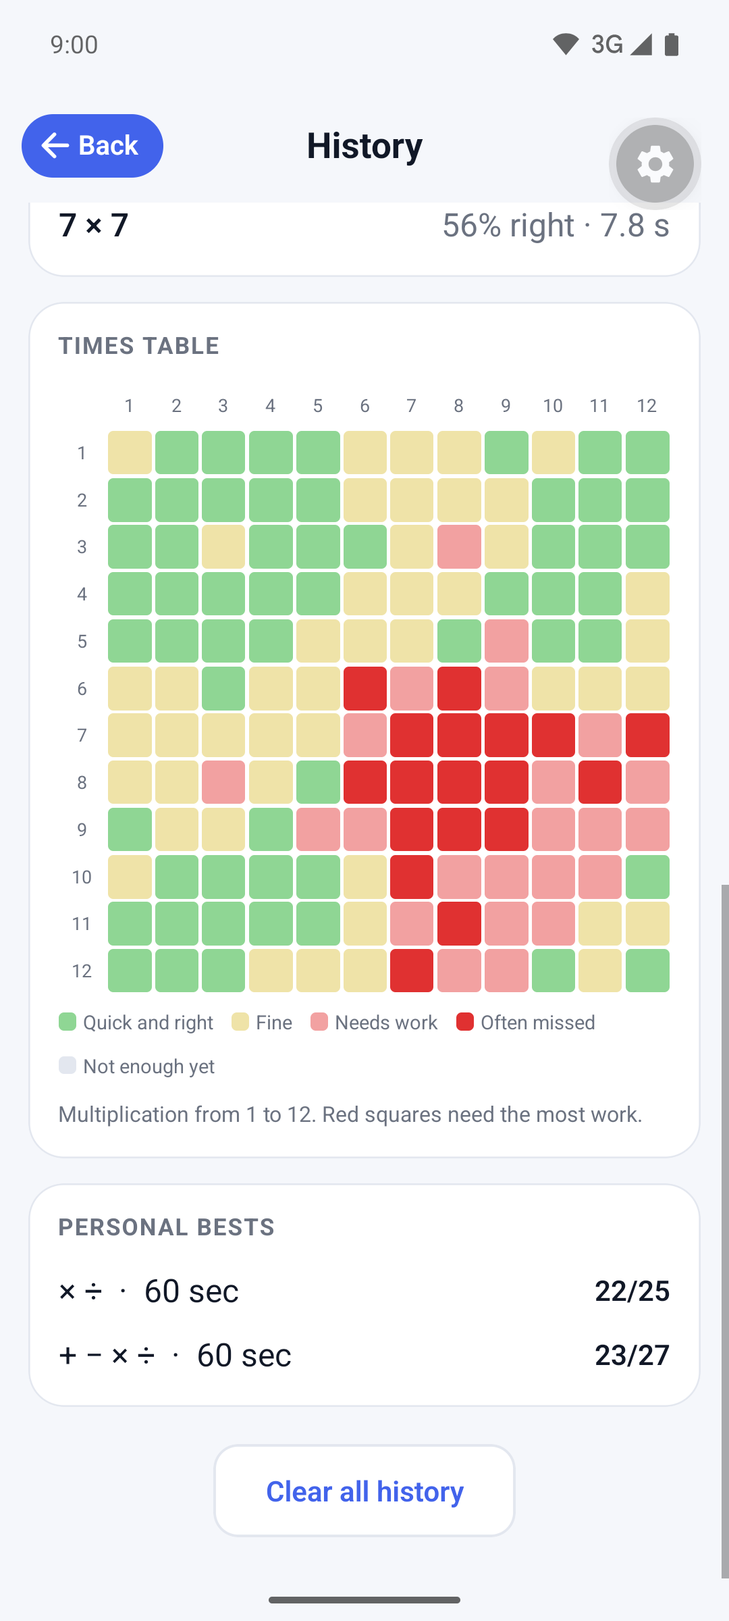
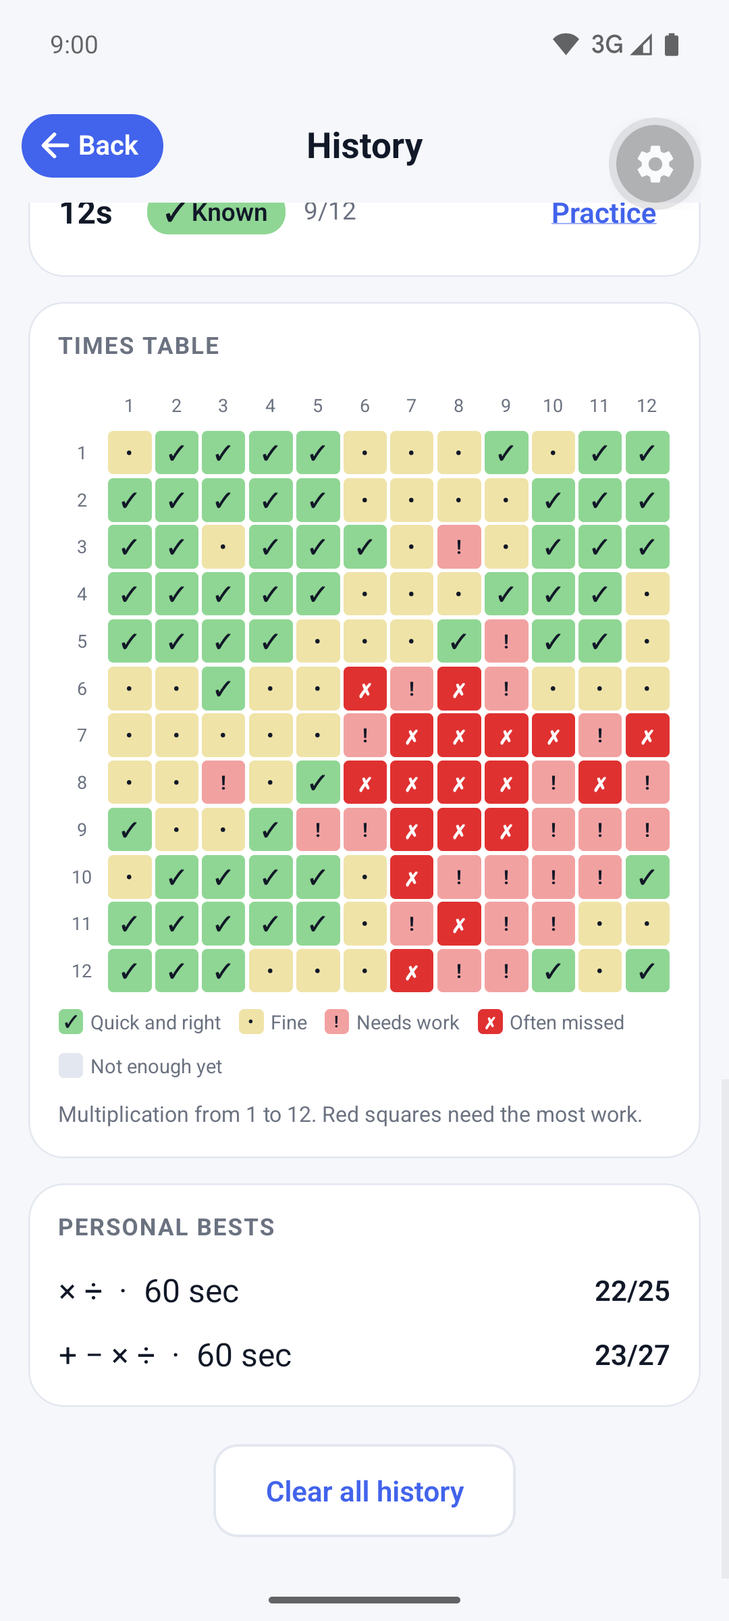
Practice path 7/7: README, privacy policy, store text and screenshots (#86)
* Practice path core: daily goal, streak with a rest day, times-table levels, saved per player

* Home screen: daily goal marks, streak and a goal button

* Today's practice: one-tap round of the next times table, limited to one table

* Times table levels on History, Practice the Ns, and a level-up line on the results screen

* Backup and restore carry the daily goal and streak (backup format version 2; version 1 backups still restore)

* Optional daily reminder (expo-notifications), off by default; version 1.5.0 because it needs a new store build

* Docs and screenshots for the practice path: README, privacy policy, store text, new screenshots

---------

diff --git a/README.md b/README.md
@@ -1,9 +1,10 @@
 # Math Mad Minute
 
-Mobile app for the classic "mad minute" arithmetic drill: answer as many math problems as you can in 30, 60 or 120 seconds, then see how you did. You choose which operations to practise and the range of numbers.
+Mobile app for the classic "mad minute" arithmetic drill: answer as many math problems as you can in 30, 60 or 120 seconds, then see how you did. You choose which operations to practise and the range of numbers, or let **Today's practice** pick the next times table to work on.
 
 <p><img src="docs/screenshots/home.png" alt="Home screen" width="24%"> <img src="docs/screenshots/settings.png" alt="Settings: number range and operations" width="24%"> <img src="docs/screenshots/question.png" alt="A question in progress" width="24%"> <img src="docs/screenshots/results.png" alt="Results with correct, incorrect and skipped answers and a Worth another look note" width="24%"></p>
-<p><img src="docs/screenshots/history.png" alt="History: totals, recent rounds and accuracy by operation" width="24%"> <img src="docs/screenshots/times-table.png" alt="History: a times table coloured by how well each fact is known" width="24%"> <img src="docs/screenshots/focus.png" alt="Settings: the Focus on my weak spots switch" width="24%"></p>
+<p><img src="docs/screenshots/history.png" alt="History: totals, recent rounds and accuracy by operation" width="24%"> <img src="docs/screenshots/table-levels.png" alt="History: a level for each times table from 2 to 12, with a Practice button" width="24%"> <img src="docs/screenshots/times-table.png" alt="History: a times table coloured by how well each fact is known" width="24%"> <img src="docs/screenshots/focus.png" alt="Settings: the Focus on my weak spots switch" width="24%"></p>
+<p><img src="docs/screenshots/reminder.png" alt="The optional daily reminder: a switch and a time" width="24%"></p>
 
 ## Why it exists
 
@@ -14,9 +15,10 @@ A timed arithmetic drill is slow to set up by hand: someone has to write the que
 1. **Settings** – start from a quick preset (Easy +/−, Times tables, Mixed) or set it up yourself: turn addition, subtraction, multiplication and division on or off, set the smallest and largest numbers with a two-handle slider (defaults: addition only, 0 to 20), and pick a 30, 60 or 120 second round. Once you have answered 50 questions, a **Focus on my weak spots** switch (off by default) makes about half the questions your trouble spots, within the range and operations you chose.
 2. **Play** – a 3-second countdown, then your chosen round length (60 seconds by default). Questions are generated from your settings; tap in an answer on the built-in number pad and submit to get the next one.
 3. **Results** – correct, incorrect and skipped counts, an overall score such as `18/22`, a review of each question, and a "New personal best!" badge (with your previous best) when you beat your earlier score for the same operations and round length. If you missed any problems, it names up to three as "Worth another look".
-4. **History** – opened from the home screen: your overall accuracy, a bar chart of your last 10 rounds, accuracy for each operation, **trouble spots** (the five problems you miss or answer slowly, such as 7 × 8, with how often you get them right and your average time), a **times table** grid from 1 × 1 to 12 × 12 coloured by how well you know each fact, and your best score for each setup, with a button to clear it all. The app keeps a small record of every problem you have answered, on your device only, to build these.
-5. **Players and backups** – the player chip on the home screen opens a sheet where you can add up to 12 players on one device (each gets a name from a fixed list of words and animals, such as "Swift Fox", so no names are typed). Each player has their own settings, history and personal bests. **Back up progress** copies a player's progress as text through the share sheet, and **Restore progress** pastes it back in as a new player, so progress can move to a new phone. Nothing leaves the device unless you share it.
-6. **Accessibility** – buttons, the number pad and the timer are labelled for screen readers (TalkBack and VoiceOver), results and the times table use marks, words and patterns as well as colour, and the screens scroll and reflow at the largest system font size.
+4. **History** – opened from the home screen: your overall accuracy, a bar chart of your last 10 rounds, accuracy for each operation, **trouble spots** (the five problems you miss or answer slowly, such as 7 × 8, with how often you get them right and your average time), a **level for each times table** from 2s to 12s with a **Practice** button for each, a **times table** grid from 1 × 1 to 12 × 12 coloured by how well you know each fact, and your best score for each setup, with a button to clear it all. The app keeps a small record of every problem you have answered, on your device only, to build these.
+5. **Practice path** – once you have finished a round, the home screen shows a gentle **daily goal** (1, 2 or 3 rounds, tap to change), the **streak** of days in a row with one built-in **rest day** a week (a missed day is never called a loss), and **Today's practice**: one tap starts a round of the next times table to work on (one you have started and not yet learned, otherwise the next new one, 2s, 5s, 10s, 3s and so on; players who do not practise multiplication get their own setup back). A table has one of four levels: not started, learning, known (9 of its 12 facts solid) or mastered (every fact asked three times and answered well), always shown in words and a mark, and the results screen says when a round took a table up ("You know your 7s now!"). An optional **daily reminder** (off by default, a time you choose, a notification on the device only) is skipped on a day the goal is already done.
+6. **Players and backups** – the player chip on the home screen opens a sheet where you can add up to 12 players on one device (each gets a name from a fixed list of words and animals, such as "Swift Fox", so no names are typed). Each player has their own settings, history and personal bests. **Back up progress** copies a player's progress as text through the share sheet, and **Restore progress** pastes it back in as a new player, so progress can move to a new phone. A backup carries the goal and streak too, and an older backup still restores. Nothing leaves the device unless you share it.
+7. **Accessibility** – buttons, the number pad and the timer are labelled for screen readers (TalkBack and VoiceOver), results and the times table use marks, words and patterns as well as colour, and the screens scroll and reflow at the largest system font size.
 
 ## Website and growth
 
@@ -55,7 +57,7 @@ node capture.mjs                     # in another; METRO_PORT, ANDROID_SERIAL an
 
 It opens the app in Expo Go, turns on Android demo mode for a clean status bar, plays a 30-second round (five right answers, one wrong, one skipped) and saves the four images at the emulator's resolution (1080x2400 on a Pixel 8).
 
-Three more images (History, the times table, and the focus switch in Settings) need saved data, so they are only taken with `SEEDED=1`. To make that data, run `node scripts/screenshots/make-seed.mjs`, which writes a made-up player to `storage/seed.local.json` (git-ignored). The app does not read that file by itself: for the capture, temporarily make `loadStored` in `storage/storage.ts` fall back to `require("./seed.local.json")[key]` (writing it to AsyncStorage) when nothing is saved for a key, clear Expo Go's data so the capture starts from the seed alone, then run `SEEDED=1 node capture.mjs` and undo the change. Buttons are found through `uiautomator`; the question during the round is read with OCR (`tesseract.js`, which downloads its English model on first run) because `uiautomator` cannot dump the screen while the timer is running. The script has its own `package.json` so the app does not depend on it.
+More images (History, the table levels, the times table, the reminder sheet, the goal card on the home screen and the focus switch in Settings) need saved data, so they are only taken with `SEEDED=1`. To make that data, run `node scripts/screenshots/make-seed.mjs`, which writes a made-up player to `storage/seed.local.json` (git-ignored). The app does not read that file by itself: for the capture, temporarily make `loadStored` in `storage/storage.ts` fall back to `require("./seed.local.json")[key]` (writing it to AsyncStorage) when nothing is saved for a key, clear Expo Go's data so the capture starts from the seed alone, then run `SEEDED=1 node capture.mjs` and undo the change. Buttons are found through `uiautomator`; the question during the round is read with OCR (`tesseract.js`, which downloads its English model on first run) because `uiautomator` cannot dump the screen while the timer is running. The script has its own `package.json` so the app does not depend on it.
 
 ## Design decisions
 
@@ -63,11 +65,18 @@ Three more images (History, the times table, and the focus switch in Settings) n
 - **Questions and settings as small classes** (`MadMinuteQuestion`, `MadMinuteSettings`, `MadMinuteOperator`) kept in a context, so the settings, play and results screens share one source of truth.
 - **No backend or account**: everything runs on the device. Your settings and a small summary of each finished round (the last 200; no questions) are saved with AsyncStorage, and nothing is sent anywhere.
 - **Saved data is versioned and validated**: values are stored as `{ v, data }`, and anything corrupt or out of range is ignored instead of crashing the app. Each round gets an id, so the results screen can only save it once.
-- **Personal bests are per setup**: a best is kept for each mix of operations and round length (the number range is ignored), ranked by correct answers and then accuracy.
+- **Personal bests are per setup**: a best is kept for each mix of operations and round length (the number range is ignored), ranked by correct answers and then accuracy. A round of one times table has its own bests.
+- **The practice path is pure functions of data the app already keeps** (`contexts/MadMinuteContext/practice.ts`): table levels come from the per-problem record, the streak and goal from one small per-player record. Days are the device's local calendar days, counted so a daylight saving change cannot add or remove a day; a clock set back never takes a streak away, and a last day more than a week ahead is treated as a wrong clock. The rest day is one per calendar week and is lazy: it is only used up when the next round is finished.
+- **Calm by design for a children's app**: no points, no leaderboards, no loss wording, no message when a streak runs out, and the reminder is opt-in, local, says only "Ready for a minute of math practice?", and names no one.
+- **A round of one table is not a setting**: `MadMinuteClass.table` limits the questions without touching the player's own settings, so Start still opens their usual setup.
+- **Reminders are scheduled a week at a time**, not as one repeating notification, so today's can be skipped when the goal is done and a phone nobody opens stops reminding by itself (`contexts/MadMinuteContext/reminder.ts`, `notifications.ts`). `expo-notifications` is only loaded when a reminder is first turned on. They are best effort: Android may deliver one a few minutes late, because exact alarms need a restricted permission.
 
 ## Limitations
 
-- Tests cover question generation (operators, ranges, subtraction and division edge cases), the results tally (correct, incorrect and skipped, and why the unanswered last question is not counted), the settings presets and operator display symbols, saving and loading settings (including focus mode), the weak-spot draw in focus mode (which facts qualify, the 50% mix, the settings switch), building and capping round records (including saving a round only once), personal bests, the history statistics, the per-problem record (keys, decay, weakness, validated storage, recording once per round and clearing with the history), answer timing and the no-repeat rule, the History screen's trouble spots and times table, and the results screen's "Worth another look" note. The number pad, the play screen and the settings screen's focus switch have their own tests; the home screen is not tested.
+- Tests cover question generation (operators, ranges, subtraction and division edge cases), the results tally (correct, incorrect and skipped, and why the unanswered last question is not counted), the settings presets and operator display symbols, saving and loading settings (including focus mode), the weak-spot draw in focus mode (which facts qualify, the 50% mix, the settings switch), building and capping round records (including saving a round only once), personal bests, the history statistics, the per-problem record (keys, decay, weakness, validated storage, recording once per round and clearing with the history), answer timing and the no-repeat rule, the History screen's trouble spots and times table, and the results screen's "Worth another look" note. The number pad, the play screen and the settings screen's focus switch have their own tests. The practice path has tests for the day and streak rules (rest day once a week, midnight, month and year ends, daylight saving, clocks set back and far forward, corrupt saved data, checked in several time zones), the table levels and the one-table round, the goal card, Today's practice and the table level rows on the home and History screens, the level-up line on the results screen, backup and restore of the goal and streak (including version 1 backups), and the reminder (which days are scheduled, permission, saving, rescheduling, the notification wrapper and the sheet).
+- The mastery thresholds (a fact is solid below a weakness of 0.15; a table is known at 9 of 12 solid facts and mastered at 3 attempts each) are reasoned guesses that have not been tuned on real play, and the app has no analytics by design, so tuning means someone watching a child play.
+- Reminders were checked on an Android emulator in Expo Go (the permission prompt, scheduling and a delivered notification) but not on an iPhone or in a store build, and Google Play's Families policy and Apple's Kids rules for streak and reminder features have not been checked against this app.
+- A device with several players shares one reminder, and today's is skipped when the player who is active has finished their goal.
 
 ## License
 

diff --git a/docs/privacy.md b/docs/privacy.md
@@ -4,7 +4,7 @@ title: Math Mad Minute Privacy Policy
 
 # Math Mad Minute Privacy Policy
 
-**Effective date:** 20 November 2026
+**Effective date:** 23 November 2026
 
 Math Mad Minute does not collect or share any personal information about its users. It has no accounts, no ads and no analytics.
 
@@ -14,15 +14,21 @@ To show your progress, the app saves your settings, a short history of your fini
 
 The app can keep separate progress for up to 12 players on one device. A player is named by the app from a fixed list of words and animals (for example "Swift Fox"); nobody types a name, so no personal details are entered. Each player's settings, history and problem record stay on the device.
 
-You can delete all of it at any time with "Clear all history" in the app, or by uninstalling the app.
+The app also keeps each player's daily goal, their streak (the days in a row they played and the best streak) and the days and number of rounds played today, so it can show them on the home screen and in the table levels. This too stays on the device. A reminder, if you turn it on, is a time of day saved on the device.
+
+You can delete all of it at any time with "Clear all history" in the app (which also starts the streak again), or by uninstalling the app.
 
 ## Sharing and backups
 
-Two buttons create text that you can send somewhere: "Share Score" on the results screen (your score, the setup and a link to the app) and "Back up progress" in the players sheet (a player's progress). The text is made only when you tap the button, and it goes only where you choose in your phone's own share window. Nothing is sent to us. To restore a backup you paste the text into the app, which adds it as a new player on that device.
+Two buttons create text that you can send somewhere: "Share Score" on the results screen (your score, the setup and a link to the app) and "Back up progress" in the players sheet (a player's progress, including their goal and streak). The text is made only when you tap the button, and it goes only where you choose in your phone's own share window. Nothing is sent to us. To restore a backup you paste the text into the app, which adds it as a new player on that device.
 
 ## App updates
 
 To fix problems without waiting for an app store review, the app asks Expo's update service (EAS Update) each time it opens whether a newer version of the app's code is available. That request carries what any internet request carries, such as your IP address, plus the app version and your device's platform, and the service uses it to send the right update. Your settings, history and players are not part of it, and we do not use it to identify anyone. Expo's own policy applies to how it handles those requests: <https://expo.dev/privacy>.
+
+## Daily reminder
+
+The app can send you a reminder once a day. It is off until you turn it on, and the phone asks for your permission only at that moment. The reminder is a notification that the app asks your phone to show at the time you choose, so it is created and shown on the device: nothing about it is sent to us or to anyone else, the app does not use push notifications from a server, and the text ("Ready for a minute of math practice?") does not name or describe the player. You can turn it off in the app at any time, or in your phone's notification settings. On Android the app may also ask the phone to start the reminders again after the phone restarts.
 
 ## Ratings
 
@@ -30,11 +36,11 @@ After a new personal best the app may ask you to rate it using the App Store's o
 
 ## Third-party services
 
-The app does not use analytics, advertising or crash reporting. The only outside service it contacts is the update service described above.
+The app does not use analytics, advertising or crash reporting. The only outside service it contacts is the update service described above. Reminders use your phone's own notification system and contact no service.
 
 ## Children's privacy
 
-The app is designed for all users, including children. It does not ask for or collect personal information from children under 13, and complies with the Children's Online Privacy Protection Act (COPPA). The only information that leaves the device without a tap from the player is the update request described above, which contains nothing about the child.
+The app is designed for all users, including children. It does not ask for or collect personal information from children under 13, and complies with the Children's Online Privacy Protection Act (COPPA). The only information that leaves the device without a tap from the player is the update request described above, which contains nothing about the child. The streak, goal and reminder are on the device only, use no names, and the app has no points, rankings or messages to other people.
 
 ## Changes to this policy
 

diff --git a/docs/google-play.md b/docs/google-play.md
@@ -25,9 +25,11 @@ eas build --platform android --profile production   # produces an .aab
   - Quick presets: Easy +/-, Times tables, Mixed.
   - Review every question afterwards, with correct, incorrect and skipped counts.
   - Personal best badges for each setup.
-  - History with accuracy by operation, your trouble spots, and a 1 x 1 to 12 x 12 times table coloured by how well you know each fact.
+  - A daily goal and a streak with a built-in rest day, and Today's practice: one tap starts the next times table to work on.
+  - History with accuracy by operation, your trouble spots, a level for each times table from 2s to 12s, and a 1 x 1 to 12 x 12 times table coloured by how well you know each fact.
+  - An optional daily reminder, off until you turn it on.
   - Optional Focus mode that mixes in the problems you miss most.
-  - Up to 12 players on one device, each with their own settings, history and personal bests. Back up a player's progress as text and restore it on a new phone.
+  - Up to 12 players on one device, each with their own settings, history and personal bests. Back up a player's progress as text (goal and streak included) and restore it on a new phone.
   - Works with a screen reader and large text, with marks and patterns as well as colour.
   - Share your result with one tap.
 
@@ -43,8 +45,27 @@ eas build --platform android --profile production   # produces an .aab
 - **Ads:** none. **Account required:** no.
 - **Content rating:** questionnaire, answer no to everything (expected: Everyone).
 - **Target audience:** if you include children under 13, Play's Families policy applies. The app has no ads, accounts or tracking, but decide this deliberately.
-- **Permissions:** none requested.
+- **Permissions:** 1.5.0 adds `POST_NOTIFICATIONS` (Android 13 and later, asked only when the reminder is turned on) and `RECEIVE_BOOT_COMPLETED` (so a reminder survives a restart), both added by the notifications library. Play lists them on the store page automatically. Before 1.5.0: none.
 - **New personal accounts:** Play requires a closed test with at least 12 testers opted in for 14 days before you can apply for production access.
+
+## 1.5.0 release notes (Play, 500 limit)
+
+```
+<en-US>
+- Daily goal and streak with a built-in rest day, kept on your device.
+- Today's practice: one tap starts the next times table to work on.
+- Times table levels in History, with a Practice button for each table.
+- Optional daily reminder, off until you turn it on. Nothing is sent anywhere.
+- Backups now include your goal and streak.
+</en-US>
+```
+
+## 1.5.0 declarations
+
+- **Data safety:** still no data collected and no data shared. The goal, streak and reminder time stay on the device; the reminder is a local notification, with no push service and no token.
+- **Families policy / target audience:** **not verified.** The streak and reminder are opt-in (reminder), local, calm and name no one, and there are no points, ads or accounts, but check the current Families policy text on engagement features and notifications for apps that include children before releasing, and decide the target audience deliberately.
+- **Permission declarations:** Play may ask why the app uses notifications and boot-completed: they are used only for the optional daily reminder.
+- **Needs a new build:** 1.5.0 includes a native module, so it cannot go over the air to 1.4.0; build an `.aab` as in the Build section.
 
 ## 1.4.0 release notes (Play, 500 limit)
 

diff --git a/docs/store-listing.md b/docs/store-listing.md
@@ -33,6 +33,12 @@ Notes:
 > - Set the smallest and largest numbers, from 0 to 20 for quick sums to 1 to 12 for times tables
 > - Quick presets: Easy +/-, Times tables and Mixed
 >
+> A GENTLE DAILY ROUTINE
+> - A daily goal of 1, 2 or 3 rounds and a streak with a built-in rest day, kept on your device
+> - Today's practice: one tap starts the next times table to work on
+> - A level for each times table from 2s to 12s, with a Practice button for each
+> - An optional daily reminder, off until you turn it on
+>
 > SEE WHAT TO WORK ON
 > - Review every question after each round: correct, incorrect and skipped
 > - Personal best badges for each setup, so you are always beating yourself
@@ -42,7 +48,7 @@ Notes:
 >
 > FOR FAMILIES AND CLASSROOMS
 > - Up to 12 players on one device, each with their own settings, history and personal bests (players get a name from a list, so no personal details are entered)
-> - Back up a player's progress as text and restore it on a new phone
+> - Back up a player's progress as text, goal and streak included, and restore it on a new phone
 > - Works with a screen reader and large text, with marks and patterns as well as colour
 > - Share your result with one tap
 >
@@ -59,6 +65,22 @@ The README screenshots in `docs/screenshots/` are the source set (home, settings
 table, focus). For the store, the first three images are what search results show: lead with a question in progress, the
 results screen with a personal best, and the coloured times table, each with a short caption ("Beat your best in a
 minute", "See what you missed", "Know your times tables").
+
+## 1.5.0 What's New (Apple, 4000 limit)
+
+```
+- Daily goal and streak: pick 1, 2 or 3 rounds a day. A built-in rest day means one missed day a week does not end your streak. It all stays on your device.
+- Today's practice: one tap starts a round of the next times table to work on.
+- Times table levels: see where each table from 2s to 12s stands, and practise any of them with one tap.
+- Optional daily reminder, off until you turn it on. It is a notification on your device only.
+- Backups now include your goal and streak.
+```
+
+## 1.5.0 App Store privacy answers
+
+- **Data Not Collected** stays the answer: the goal, streak and reminder time are kept on the device and sent nowhere. The reminder is a local notification (no push notifications from a server, no push token). Permission to show notifications is asked only when the player turns the reminder on. Privacy policy effective 23 November 2026.
+- **Not verified:** Apple's current guidance for streaks, reminders and notifications in apps that children may use. The app is still not in the Kids Category and makes no age-targeting claims. Read the current App Review Guidelines (sections on kids, and on notifications) before submitting; the design is opt-in, local, quiet and names no one, but that is my reading, not Apple's.
+- No demo account needed. Review note: "No sign-in. Play one round, then the home screen shows the daily goal and Today's practice. The daily reminder is off until the switch under Reminder is turned on."
 
 ## 1.4.0 What's New (Apple, 4000 limit)
 
